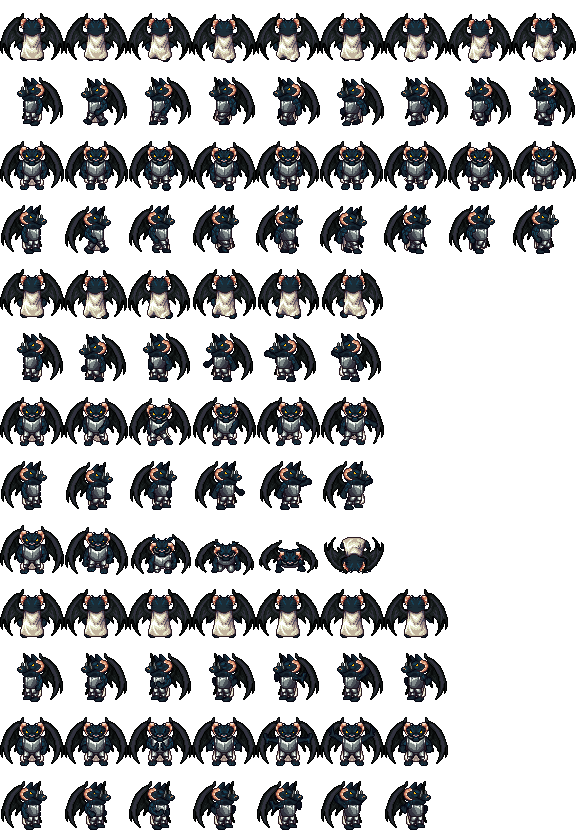
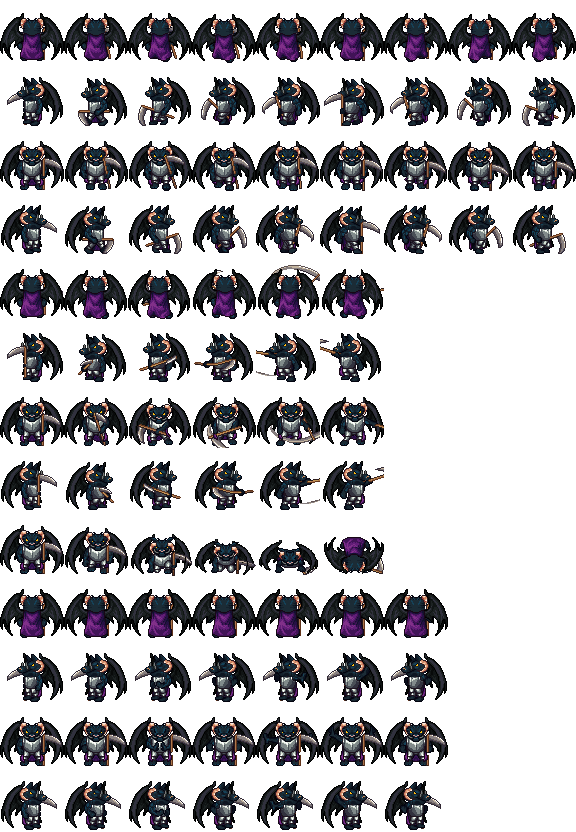
Monster art pass: new Blood King and Lich King boss sprites; humanoid mobs get weapons and armor
- boss_minotaur (LPC: crimson fur, iron armor, red cape, war axe) for Blood King
- boss_lich (procedural: floating tattered robe, skull with crown, staff, soul orbs) for Lich King
- 24 humanoid mobs rebuilt with weapons (axe, club, halberd, saber, mace, flail, scythe,
  rapier, spear, trident, dragon spear, glow sword, katana) plus helmets/pauldrons
- build_mobs: LPC weapon layers (slash from 192px frames, spear thrust fallback), cape recolor fix

Claude-Session: https://claude.ai/code/session_01RVFgCBNzd2DQowAD8LfVDX

diff --git a/server/data.js b/server/data.js
@@ -244,7 +244,7 @@ const MONSTER_RESPAWN_MS = 8000;
 // slam = ทุบพื้นเป็นวง (เตือนก่อน cast ms) · summon = เรียกลูกน้องเมื่อเลือดต่ำกว่า at · enrage = คลั่งเมื่อเลือดต่ำกว่า
 const WORLD_BOSSES = {
   bloodking: {
-    name: "ราชันโลหิตมิโนทอร์", level: 32, sprite: "minotaur", tint: 0xff5a4a, scale: 2.1, speed: 80, aggressive: true,
+    name: "ราชันโลหิตมิโนทอร์", level: 32, sprite: "boss_minotaur", tint: 0xffffff, scale: 2.1, speed: 80, aggressive: true,
     maps: ["orcamp", "snow"], every: [60, 90], // เกิดเองตามเวลา: สุ่มแผนที่ · ทุก 60–90 นาทีหลังถูกปราบ/หายไป
     hpMul: 250, atkMul: 1.5, defMul: 1.6, expMul: 40, goldMul: 25, range: 70,
     slam: { every: 9000, cast: 1300, r: 140, mult: 2.2 },
@@ -262,7 +262,7 @@ const WORLD_BOSSES = {
       items: [["stone_3", 3, 5], ["potion_m", 5, 8]] },
   },
   lichking: {
-    name: "จอมลิชราตรี", level: 60, sprite: "lich", tint: 0xb07aff, scale: 2.2, speed: 75, aggressive: true,
+    name: "จอมลิชราตรี", level: 60, sprite: "boss_lich", tint: 0xffffff, scale: 2.2, speed: 75, aggressive: true,
     maps: ["ruins", "cursed"], every: [90, 120],
     hpMul: 250, atkMul: 1.55, defMul: 1.6, expMul: 40, goldMul: 25, range: 70,
     summon: { at: [0.6, 0.3], kind: "skelknight", n: 4 },

diff --git a/public/game.js b/public/game.js
@@ -156,7 +156,7 @@ const layersFor = (lk, job = "villager", gear = "") => {
 // สีเตือนพื้นที่ของสกิลบอส / สีออร่าตามร่างบอส
 const BOSS_SK = { bullrush: { c: 0xff5a2a }, bloodroar: { c: 0xc01020 }, frostrain: { c: 0x6fd0ff }, deathmark: { c: 0xa040ff }, soulnova: { c: 0x50e0a0 },
   breath: { c: 0xff3ad0 }, meteor: { c: 0xff6a1a }, wingstorm: { c: 0xc890ff } };
-const BOSS_AURA = { minotaur: 0xc01020, lich: 0x7a4aff, dragon_abyss: 0xff3ad0, wyvern: 0xff3ad0 };
+const BOSS_AURA = { minotaur: 0xc01020, boss_minotaur: 0xc01020, lich: 0x7a4aff, boss_lich: 0x6ad8ff, dragon_abyss: 0xff3ad0, wyvern: 0xff3ad0 };
 function drawLook(cv, lk, job, frame, row, gear) {
   const ctx = cv.getContext("2d");
   ctx.imageSmoothingEnabled = false;

diff --git a/tools/mobs/creatures.py b/tools/mobs/creatures.py
@@ -558,7 +558,187 @@ def dragon(c, d, kind, f, n, P):
     if kind == "cast" and 2 <= f <= 5:
         for i in range(6): c.dot(cx + math.cos(i * 1.1 + f) * 22, by - 6 + math.sin(i * 1.7 + f) * 14, fire, 1.2, 0.85)
 
-BODIES = {"slime": slime, "bat": bat, "ghost": ghost, "mushroom": mushroom, "spider": spider, "golem": golem, "eye": eye, "wisp": wisp, "plant": plant, "dragon": dragon}
+
+# ---------------- บอส: ราชันโลหิตมิโนทอร์ ----------------
+def rot2(px, py, cx, cy, a):
+    dx, dy = px - cx, py - cy
+    return cx + dx * math.cos(a) - dy * math.sin(a), cy + dx * math.sin(a) + dy * math.cos(a)
+
+def big_axe(c, hx, hy, ang, s, metal=(150, 150, 160), blood=(150, 20, 20), glow=None):
+    """ขวานสองคมยักษ์: ด้ามจากมือ (hx,hy) ยาวไปทางมุม ang · ใบขวานที่ปลาย"""
+    L = 26 * s
+    ex, ey = hx + math.cos(ang) * L, hy + math.sin(ang) * L
+    bx, by = hx - math.cos(ang) * 6 * s, hy - math.sin(ang) * 6 * s
+    c.line(bx, by, ex, ey, 2.4, (90, 60, 34), 1)
+    for side in (-1, 1):  # ใบขวานสองข้าง
+        pts = [(0, -1), (side * 9, -7), (side * 12, 0), (side * 9, 7), (0, 1)]
+        q = [rot2(ex + px * s, ey + py * s, ex, ey, ang + math.pi / 2) for px, py in pts]
+        c.poly(q, metal, 2)
+        e1 = rot2(ex + side * 11.5 * s, ey - 5 * s, ex, ey, ang + math.pi / 2); e2 = rot2(ex + side * 11.5 * s, ey + 5 * s, ex, ey, ang + math.pi / 2)
+        c.line(e1[0], e1[1], e2[0], e2[1], 1, (235, 235, 245), 3)
+        c.dot(*rot2(ex + side * 7 * s, ey + 2 * s, ex, ey, ang + math.pi / 2), blood, 1.1)
+    c.dot(ex, ey, (60, 50, 50), 1.6)
+
+def minotaur_boss(c, d, kind, f, n, P):
+    ph = f / max(1, n) * math.pi * 2
+    s = P.get("size", 1)
+    fur, dark, horn, metal, eye = P["c"], P["dark"], P.get("horn", (232, 222, 196)), P.get("metal", (120, 120, 132)), P.get("eye", (255, 40, 30))
+    cx, base = 32, 61
+    step = math.sin(ph) if kind == "walk" else 0
+    bob = abs(math.sin(ph)) * 1.4 if kind == "walk" else 0
+    fw = {"left": -1, "right": 1}.get(d, 0); side = fw != 0
+    swing = None; roar = 0; fall = 0
+    if kind == "slash":  # ยกขวานไปหลังหัว → ฟาดลงข้างหน้า
+        t = f / (n - 1); swing = (-2.3 + t * 3.3) if t > 0.25 else -2.3 - t * 0.6
+    if kind == "cast": roar = math.sin(min(1, f / (n - 2)) * math.pi * 0.5)
+    if kind == "hurt": fall = f / max(1, n - 1)
+    by = base - 25 * s + bob + fall * 12
+    # ขา + กีบ
+    for sg in ((-1, 1) if not side else (fw, -fw)):
+        lx = cx + sg * (7 if not side else 2) * s + (step * sg * 3 if side else 0)
+        lift = max(0, step * sg) * 3
+        c.ell(lx, base - 10 - lift + fall * 4, 5.5 * s, 8 * s, fur)
+        c.ell(lx, base - 2.5 - lift + fall * 2, 4.5 * s, 2.6 * s, dark, flat=0)
+    # ผ้าเตี่ยว + เข็มขัดหัวกะโหลก
+    c.poly([(cx - 9 * s, by + 10), (cx + 9 * s, by + 10), (cx + 6 * s, by + 20), (cx - 6 * s, by + 20)], P.get("cloth", (90, 20, 24)), 1)
+    c.line(cx - 11 * s, by + 10, cx + 11 * s, by + 10, 2.5, (70, 50, 30), 1)
+    if d != "up": c.ell(cx + fw * 3, by + 10, 2.4, 2.2, (230, 225, 210), flat=3)
+    # ลำตัวกล้ามใหญ่หลังค่อม
+    c.ell(cx, by, 12 * s, 12 * s, fur)
+    if d != "up" and not side:
+        c.ell(cx - 4.5 * s, by - 3, 5 * s, 4 * s, fur, flat=3); c.ell(cx + 4.5 * s, by - 3, 5 * s, 4 * s, fur, flat=3)  # อก
+        for i in range(3): c.line(cx - 3 + i * 2.5, by + 3, cx - 1 + i * 2.5, by + 8, 1, dark, 1)                  # ท้อง
+        c.line(cx - 8, by - 6, cx - 2, by + 1, 1, (200, 60, 60), 2); c.line(cx + 3, by - 7, cx + 8, by - 1, 1, (200, 60, 60), 2)  # แผลเป็น
+    # บ่าเกราะหนาม
+    for sg in ((-1, 1) if not side else (-fw,)):
+        sx_ = cx + sg * (13 if not side else 3) * s
+        c.ell(sx_, by - 9, 6 * s, 5 * s, metal)
+        for k in range(3): c.poly([(sx_ - 2.6 + k * 2.6, by - 12.5), (sx_ - 2 + k * 2.6 + sg * 1.5, by - 17 - (k == 1) * 2), (sx_ - 1.2 + k * 2.6, by - 12.5)], metal, 1)
+    # หัววัว
+    hx = cx + fw * 7 * s; hy = by - 16 * s - roar * 3
+    if d != "up":
+        if not side:
+            for sg in (-1, 1):  # เขาโค้งออกข้างแล้วชี้ขึ้น
+                c.poly([(hx + sg * 5, hy - 4), (hx + sg * 13, hy - 6), (hx + sg * 18, hy - 12), (hx + sg * 19, hy - 19), (hx + sg * 15, hy - 11), (hx + sg * 11, hy - 2)], horn, 2)
+            c.ell(hx, hy, 9 * s, 8 * s, fur)
+            c.ell(hx, hy - 5, 6 * s, 2.5 * s, P["dark"], flat=1)                                                             # ขนหน้าผาก
+            for sg in (-1, 1): c.poly([(hx + sg * 8, hy - 3), (hx + sg * 13, hy - 1), (hx + sg * 9, hy + 1)], fur, 1)      # หู
+            c.ell(hx, hy + 5, 6.5 * s, 4.5 * s, P.get("snout", (190, 140, 120)))                                            # จมูก
+            c.dot(hx - 2, hy + 5, (30, 10, 10), 0.9); c.dot(hx + 2, hy + 5, (30, 10, 10), 0.9)
+            c.ell(hx, hy + 8.5, 2.6, 1.6, (220, 190, 80), flat=4, alpha=0.9); c.ell(hx, hy + 8.5, 1.4, 0.8, P.get("snout", (190, 140, 120)), flat=1)  # ห่วงจมูก
+            if roar > 0.3: c.ell(hx, hy + 9, 3.5, 2.2 * roar, (60, 10, 10), flat=0)
+            for sg in (-1, 1):
+                c.line(hx + sg * 1.5, hy - 3.2, hx + sg * 5.5, hy - 1.8, 1.2, (20, 8, 8), 0)
+                c.ell(hx + sg * 3.4, hy - 1, 1.6, 1.1, eye, flat=4); c.ell(hx + sg * 3.4, hy - 1, 3, 2, eye, flat=3, alpha=0.4)
+        else:
+            L = fw
+            c.poly([(hx - L * 2, hy - 4), (hx - L * 9, hy - 9), (hx - L * 10, hy - 18), (hx - L * 6, hy - 10), (hx + L * 1, hy - 2)], horn, 2)
+            c.ell(hx, hy, 7.5 * s, 6.5 * s, fur)
+            c.ell(hx + L * 6, hy + 3, 5 * s, 3.8 * s, P.get("snout", (190, 140, 120)))
+            c.dot(hx + L * 9.5, hy + 2.5, (30, 10, 10), 0.9)
+            c.ell(hx + L * 7, hy + 7, 2, 1.5, (220, 190, 80), flat=4)
+            c.line(hx + L * 0.5, hy - 3.5, hx + L * 5, hy - 2.5, 1.2, (20, 8, 8), 0)
+            c.ell(hx + L * 2.5, hy - 1.2, 1.6, 1.1, eye, flat=4); c.ell(hx + L * 2.5, hy - 1.2, 3, 2, eye, flat=3, alpha=0.4)
+            c.poly([(hx - L * 4, hy - 1), (hx - L * 8, hy + 1), (hx - L * 4, hy + 2)], fur, 1)
+            if roar > 0.3: c.ell(hx + L * 7, hy + 6, 3, 2 * roar, (60, 10, 10), flat=0)
+    else:
+        for sg in (-1, 1): c.poly([(hx + sg * 5, hy - 4), (hx + sg * 13, hy - 6), (hx + sg * 18, hy - 12), (hx + sg * 19, hy - 19), (hx + sg * 15, hy - 11), (hx + sg * 11, hy - 2)], horn, 2)
+        c.ell(hx, hy, 8 * s, 7 * s, fur); c.ell(hx, hy + 2, 6 * s, 3 * s, dark, flat=1)
+    # แขน + ขวาน (มือขวา = ด้านที่หัน / ข้างขวาของจอเมื่อหันหน้า)
+    hand_sg = fw if side else 1
+    sxh, syh = cx + hand_sg * (16 if not side else 6) * s, by - 6
+    if swing is not None: a = swing * (1 if hand_sg > 0 else -1) + (0 if hand_sg > 0 else math.pi)
+    else: a = (-1.15 if hand_sg > 0 else -1.99) + step * 0.12 - fall * 0.8
+    hand = (sxh + math.cos(a + (0.9 if hand_sg > 0 else -0.9)) * 8, syh + 10 - (swing is not None) * 6)
+    if swing is not None: hand = (sxh + math.cos(a) * 9, syh + math.sin(a) * 9)
+    c.line(sxh, syh, hand[0], hand[1], 5 * s, fur, 2)
+    big_axe(c, hand[0], hand[1], a, s, metal=P.get("blade", (150, 150, 160)), glow=P.get("glow"))
+    c.ell(hand[0], hand[1], 3.2 * s, 3.2 * s, fur)
+    if not side:  # มืออีกข้างกำหมัด
+        ox = cx - (16 * s); c.line(ox, by - 6, ox - 2, by + 7 + step * 2, 5 * s, fur, 2); c.ell(ox - 2, by + 8 + step * 2, 3.4 * s, 3.4 * s, fur)
+    if kind == "cast" and 2 <= f <= 5:  # ไอร้อนพ่นจมูก
+        for k in range(4): c.dot(hx + (k - 1.5) * 3 + fw * 8, hy + 8 + k, (255, 220, 200), 1.4, 0.6)
+
+# ---------------- บอส: จอมลิชราตรี ----------------
+def lich_boss(c, d, kind, f, n, P):
+    ph = f / max(1, n) * math.pi * 2
+    s = P.get("size", 1)
+    robe, robe2, bone, glow, metal = P["c"], P["c2"], P.get("bone", (232, 226, 210)), P["glow"], P.get("crown", (200, 170, 70))
+    cx = 32
+    float_y = math.sin(ph) * 2.2
+    fw = {"left": -1, "right": 1}.get(d, 0); side = fw != 0
+    raise_ = 0; thrust = 0; fade = 1
+    if kind == "cast": raise_ = math.sin(min(1, f / (n - 2)) * math.pi * 0.5)
+    if kind == "slash": thrust = math.sin(f / (n - 1) * math.pi)
+    if kind == "hurt": fade = 1 - f / max(1, n - 1) * 0.8
+    by = 34 + float_y + (1 - fade) * 8
+    # เงาบนพื้น (ลอยอยู่)
+    c.ell(cx, 59, 10 * s, 2.5, (0, 0, 0), flat=0, alpha=0.35 * fade)
+    # วิญญาณลอยวน (หลังตัว)
+    for k in range(3):
+        a = ph + k * 2.1
+        ox, oy = cx + math.cos(a) * 20 * s, by - 6 + math.sin(a) * 6
+        if math.sin(a) < 0: c.ell(ox, oy, 1.6, 1.6, glow, flat=4, alpha=0.9 * fade); c.ell(ox, oy, 3.2, 3.2, glow, flat=2, alpha=0.3 * fade)
+    # ชายผ้าคลุมขาดวิ่นพลิ้ว
+    hem = []
+    for i in range(9):
+        x = cx - 13 * s + i * 26 * s / 8
+        hem.append((x + math.sin(ph + i) * 1.5, by + 20 + (4 if i % 2 else 0) + math.sin(ph * 1.5 + i * 1.3) * 2))
+    hem = []
+    for i in range(11):
+        x = cx - 16 * s + i * 32 * s / 10
+        hem.append((x + math.sin(ph + i) * 1.5, by + 20 + (5 if i % 2 else 0) + math.sin(ph * 1.5 + i * 1.3) * 2))
+    c.poly([(cx - 7 * s, by - 9), (cx + 7 * s, by - 9)] + hem[::-1], robe, 1, fade)
+    c.poly([(cx - 7 * s, by - 9), (cx + 7 * s, by - 9), (cx + 13 * s, by + 17), (cx - 13 * s, by + 17)], robe, 2, fade)
+    for sg in (-1, 1): c.line(cx + sg * 6 * s, by - 6, cx + sg * 12 * s, by + 16, 1, robe2, 3, 0.6 * fade)
+    if d != "up":
+        c.poly([(cx - 3 * s, by - 8), (cx + 3 * s, by - 8), (cx + 5 * s, by + 18), (cx - 5 * s, by + 18)], robe2, 2, fade)  # แถบกลางเสื้อ
+        for k in range(4): c.dot(cx, by - 4 + k * 5, glow, 0.9, 0.9 * fade)                                                   # อักษรรูน
+        c.ell(cx, by - 5, 3 * s, 4 * s, bone, flat=2, alpha=fade)                                                               # ซี่โครงโผล่
+        for k in range(3): c.line(cx - 2.5, by - 7 + k * 2, cx + 2.5, by - 7 + k * 2, 1, (90, 80, 70), 0, fade)
+    # ปกคอสูงแหลม
+    for sg in (-1, 1): c.poly([(cx + sg * 3, by - 8), (cx + sg * 11 * s, by - 16), (cx + sg * 9 * s, by - 6)], robe2, 1, fade)
+    # หัวกะโหลก + มงกุฎหนาม
+    hx, hy = cx + fw * 2, by - 15 - raise_ * 1.5
+    c.ell(hx, hy - 0.5, 6.8 * s, 7 * s, (30, 14, 44), flat=1, alpha=fade)   # ฮู้ดด้านหลังหัว
+    c.ell(hx, hy, 5.6 * s, 6 * s, bone, alpha=fade)
+    c.ell(hx, hy + 3.5, 3.6 * s, 2.4 * s, bone, flat=1, alpha=fade)
+    if d != "up":
+        for ex in ([-2.4, 2.4] if not side else [fw * 2.4]):
+            c.ell(hx + ex * s, hy, 1.8 * s, 2.0 * s, (10, 6, 16), flat=0, alpha=fade)
+            c.dot(hx + ex * s, hy, glow, 1.0, fade); c.ell(hx + ex * s, hy, 3.2, 3.2, glow, flat=3, alpha=0.35 * fade)
+        c.poly([(hx - 0.8 + fw, hy + 2.5), (hx + 0.8 + fw, hy + 2.5), (hx + fw, hy + 1)], (40, 30, 30), 0, fade)
+        for k in range(4): c.line(hx - 2.5 + k * 1.6 + fw, hy + 4, hx - 2.5 + k * 1.6 + fw, hy + 5.5, 1, (60, 50, 40), 0, fade)
+    c.line(hx - 6 * s, hy - 4, hx + 6 * s, hy - 4, 2, metal, 3, fade)
+    for k in range(5):
+        x = hx - 5 * s + k * 2.5 * s; h = (6 if k == 2 else 4 if k in (1, 3) else 3)
+        c.poly([(x - 1.2, hy - 4), (x, hy - 4 - h), (x + 1.2, hy - 4)], metal, 3, fade)
+        if k == 2: c.dot(x, hy - 5, glow, 0.9, fade)
+    # แขนกระดูก + คทา
+    hand_sg = fw if side else 1
+    if raise_: hx2, hy2 = cx + hand_sg * 12 * s, by - 18 - raise_ * 6
+    else: hx2, hy2 = cx + hand_sg * (12 + thrust * 6) * s, by - 2 - thrust * 2
+    c.line(cx + hand_sg * 7, by - 6, hx2, hy2, 3, robe, 2, fade)
+    c.ell(hx2, hy2, 1.8, 1.8, bone, alpha=fade)
+    sx0, sy0, sx1, sy1 = hx2, hy2 + 16, hx2 + thrust * hand_sg * 4, hy2 - 20 - raise_ * 4
+    c.line(sx0, sy0, sx1, sy1, 1.8, (70, 50, 70), 1, fade)
+    c.ell(sx1, sy1, 4 * s, 4 * s, bone, alpha=fade)                                              # หัวกะโหลกปลายคทา
+    c.dot(sx1 - 1.2, sy1, (10, 6, 16), 0.9, fade); c.dot(sx1 + 1.2, sy1, (10, 6, 16), 0.9, fade)
+    gsz = 6 + raise_ * 5 + thrust * 4
+    c.ell(sx1, sy1 - 1, gsz, gsz, glow, flat=3, alpha=0.3 * fade); c.ell(sx1, sy1 - 1, gsz * 0.4, gsz * 0.4, glow, flat=4, alpha=0.8 * fade)
+    if not side or True:  # มืออีกข้าง (กางนิ้ว)
+        ox = cx - hand_sg * 11 * s; oy = by - 2 - raise_ * 12
+        c.line(cx - hand_sg * 7, by - 6, ox, oy, 3, robe, 2, fade); c.ell(ox, oy, 1.8, 1.8, bone, alpha=fade)
+        if raise_: c.ell(ox, oy - 3, 4 + raise_ * 3, 4 + raise_ * 3, glow, flat=3, alpha=0.35 * fade)
+    # วิญญาณลอยวน (หน้าตัว)
+    for k in range(3):
+        a = ph + k * 2.1
+        ox, oy = cx + math.cos(a) * 20 * s, by - 6 + math.sin(a) * 6
+        if math.sin(a) >= 0: c.ell(ox, oy, 1.6, 1.6, glow, flat=4, alpha=0.9 * fade); c.ell(ox, oy, 3.2, 3.2, glow, flat=2, alpha=0.3 * fade)
+    if kind == "cast" and 2 <= f <= 5:
+        for k in range(6): c.dot(cx + math.cos(k + f) * 16, by - 26 + math.sin(k * 1.7 + f) * 5, glow, 1.2, 0.9)
+
+BODIES = {"slime": slime, "bat": bat, "ghost": ghost, "mushroom": mushroom, "spider": spider, "golem": golem, "eye": eye, "wisp": wisp, "plant": plant, "dragon": dragon, "minotaur_boss": minotaur_boss, "lich_boss": lich_boss}
 # ชนิดมอน: body + สี
 CREATURES = {
     "slime_green":  ("slime", dict(c=(90, 200, 90))),
@@ -586,6 +766,7 @@ CREATURES = {
     "plant_bog":    ("plant", dict(c=(170, 40, 60), leaf=(60, 130, 50), spore=(220, 255, 120))),
     "wyvern":       ("dragon", dict(c=(60, 118, 84), w=(150, 80, 44), belly=(214, 196, 132), eye=(255, 220, 60), fire=(255, 150, 40), spike=(230, 210, 150))),
     "dragon_abyss": ("dragon", dict(c=(64, 36, 96), w=(78, 28, 104), belly=(150, 92, 172), eye=(255, 80, 220), fire=(255, 110, 230), horn=(225, 205, 235), spike=(255, 70, 200))),
+    "boss_lich":     ("lich_boss", dict(c=(52, 24, 76), c2=(108, 54, 150), glow=(140, 230, 255), crown=(214, 180, 80))),
     "plant_cursed": ("plant", dict(c=(110, 40, 140), leaf=(50, 80, 60), spot=(255, 120, 230), spore=(220, 120, 255))),
 }
 LAYOUT = [("walk", 0, 9), ("slash", 4, 6), ("hurt", 8, 6), ("cast", 9, 7)]

diff --git a/tools/mobs/build_mobs.py b/tools/mobs/build_mobs.py
@@ -54,6 +54,37 @@ def head(name, skin, sex="male"):
 def metal(base, to):  # ชิ้นเกราะโลหะ (ต้นฉบับสี steel)
     return part(base, pal=[("metal", "steel", to)] if to != "steel" else None)
 
+def weapon(base, color=None):
+    """อาวุธ LPC → [bg, fg] (เดิน/ฟัน/บาดเจ็บ/ร่ายเวท) · ท่าฟันใช้ภาพขนาด 192 ตัดตรงกลาง 64 · ไม่มีท่าเดิน → ใช้เฟรมแรกของท่าฟันถือไว้"""
+    import glob
+    root = os.path.join(R, "weapon", base)
+    files = sorted(glob.glob(os.path.join(root, "**", "*.png"), recursive=True))
+    def pick(anim, back):
+        c = [f for f in files if (anim in f.replace(root, "")) and (("behind" in f or "background" in f) == back) and "reverse" not in f]
+        if anim == "attack_slash" and not c:
+            c = [f for f in files if os.path.dirname(f) == (os.path.join(root, "background") if back else root)]
+        if color:
+            cc = [f for f in c if os.path.basename(f).startswith(color)]
+            c = cc or c
+        pref = [f for f in c if os.path.basename(f)[:-4] in (os.path.basename(base), "foreground", "background")]
+        return (pref or c or [None])[0]
+    out = []
+    for back in (True, False):
+        s = lpc.blank()
+        sl = pick("attack_slash", back)
+        if sl: lpc.put(s, sl, "slash", fs=192)
+        else:  # หอก: ไม่มีท่าฟัน → ใช้ท่าแทง
+            th = pick("attack_thrust", back)
+            if th: lpc.put(s, th, "slash", pick=[0, 1, 3, 4, 5, 7], fs=192); sl = th
+        w = pick("walk", back)
+        if w: lpc.put(s, w, "walk"); lpc.put(s, w, "spellcast", pick=[0] * 7)
+        elif sl:  # ถือค้างไว้ด้วยเฟรมแรกของท่าฟัน
+            lpc.put(s, sl, "walk", pick=[0] * 9, fs=192); lpc.put(s, sl, "spellcast", pick=[0] * 7, fs=192)
+        h = pick("hurt", back)
+        if h: lpc.put(s, h, "hurt")
+        out.append(s)
+    return out
+
 def build(recipe):
     sheet = lpc.blank()
     for l in recipe:
@@ -72,8 +103,13 @@ def M():
     tail = lambda kind, c=None, **k: [part(f"body/tail/{kind}/adult/bg", color=c, **k), part(f"body/tail/{kind}/adult/fg", color=c, **k)]
     robe = lambda c, sex="male": part("torso/clothes/robe/female", color=c)  # มีแต่ทรงหญิง (ใส่กับร่างอื่นก็พอได้)
     cyclops = lambda: part("eyes/cyclops/adult")
-    cape = lambda c: [part("cape/solid/bg", color=c), part("cape/solid/fg", color=c)]
+    cape = lambda c: [part("cape/solid/bg", pal=[("cloth", "white", c)] if c != "white" else None), part("cape/solid/fg", pal=[("cloth", "white", c)] if c != "white" else None)]  # ต้นฉบับมีสีขาวสีเดียว → ย้อมเอง
     hat = lambda kind, c=None: part(f"hat/magic/{kind}/base/adult", color=c)
+    W = lambda w, c=None: weapon(w, c)                       # อาวุธ [bg, fg]
+    helm = lambda kind, to="steel": metal(f"hat/helmet/{kind}/adult", to)
+    shoulder = lambda kind, to="steel": metal(f"shoulders/{kind}/male", to)
+    leather = lambda: metal("torso/armour/leather/male", "steel")
+    legion = lambda to: metal("torso/armour/legion/male", to)
 
     def L(*xs):  # รวมเลเยอร์ (รองรับ list ของ [bg, fg])
         bg, mid, fg = [], [], []
@@ -83,50 +119,58 @@ def M():
         return bg + mid + fg
 
     return {
+        # World Boss: ราชันโลหิตมิโนทอร์ (ขนแดงเลือด เกราะเหล็กดำ ผ้าคลุมแดง ขวานศึก)
+        "boss_minotaur": lambda: L(W("blunt/waraxe"), cape("maroon"), mus("fur_copper"), plate_legs("iron"), legion("iron"), shoulder("bauldron", "iron"), head("minotaur", "fur_copper"), horns("curled")),
+        # มอนเลเวลต่ำแบบคน (ทำใหม่: มีอาวุธ/ชุดเกราะ ไม่ใช่แค่ตัวเปล่าย้อมสี)
+        "orc":         lambda: L(W("blunt/waraxe"), mus("green"), pants("brown"), leather(), shoulder("pauldrons", "iron"), head("orc", "green")),
+        "troll":       lambda: L(W("blunt/club"), mus("taupe"), pants("walnut"), head("troll", "taupe")),
+        "minotaur":    lambda: L(W("polearm/halberd"), mus("fur_brown"), pants("maroon"), legion("bronze"), head("minotaur", "fur_brown")),
+        "snowtroll":   lambda: L(W("blunt/club"), mus("fur_white"), pants("bluegray"), shoulder("bauldron", "silver"), head("troll", "fur_white")),
+        "skeleton":    lambda: L(W("sword/saber"), body("skeleton", "light"), head("skeleton", "light")),
         # ยอดเขาน้ำแข็ง 34–44
-        "frostgiant":  lambda: L(mus("fur_white"), pants("navy"), plate("silver"), head("troll", "fur_white")),
+        "frostgiant":  lambda: L(W("blunt/mace"), mus("fur_white"), pants("navy"), plate("silver"), head("troll", "fur_white"), helm("horned", "silver")),
         "snowwraith":  lambda: L(wings("feathered", "platinum"), body("skeleton", "light"), robe("white"), head("skeleton", "light")),
         "icewolfman":  lambda: L(tail("wolf", "platinum"), mus("fur_white"), pants("bluegray"), head("wolf", "fur_white")),
-        "frostcyclops":lambda: L(mus("blue"), pants("slate"), head("human", "blue", "male_plump"), cyclops()),
+        "frostcyclops":lambda: L(W("blunt/club"), mus("blue"), pants("slate"), shoulder("bauldron", "silver"), head("human", "blue", "male_plump"), cyclops()),
         # บึงพิษมรณะ 42–52
         "bogzombie":   lambda: L(body("zombie", "zombie_green"), pants_m("forest"), head("zombie", "zombie_green")),
-        "venomlizard": lambda: L(tail("lizard", None, pal=None), mus("dark_green"), pants("maroon"), head("lizard", "dark_green")),
-        "bogboar":     lambda: L(mus("olive"), pants("walnut"), metal("torso/armour/leather/male", "steel"), head("boarman", "olive")),
+        "venomlizard": lambda: L(W("polearm/spear"), tail("lizard", None, pal=None), mus("dark_green"), pants("maroon"), head("lizard", "dark_green")),
+        "bogboar":     lambda: L(W("blunt/flail"), mus("olive"), pants("walnut"), metal("torso/armour/leather/male", "steel"), head("boarman", "olive")),
         "swampwitch":  lambda: L(body("female", "pale_green"), robe("forest_green", "female"), head("human", "pale_green", "female"), hat("wizard", "forest")),
         # ซากปราสาทร้าง 50–60
-        "skelknight":  lambda: L(body("skeleton", "light"), plate_legs("iron"), plate("iron"), head("skeleton", "light")),
+        "skelknight":  lambda: L(W("sword/longsword"), body("skeleton", "light"), plate_legs("iron"), plate("iron"), head("skeleton", "light"), helm("bascinet", "iron")),
         "frankenstein":lambda: L(mus("pale_green"), pants("charcoal"), head("frankenstein", "pale_green")),
         "gargoyle":    lambda: L(wings("bat", "ash"), mus("taupe"), pants("gray"), head("orc", "taupe"), horns("backwards")),
         "lich":        lambda: L(body("skeleton", "light"), robe("purple"), head("skeleton", "light"), hat("wizard", "purple")),
         # ป่าต้องสาป 58–68
-        "wartotaur":   lambda: L(mus("fur_black"), pants("maroon"), head("wartotaur", "fur_black")),
-        "vamplord":    lambda: L(wings("bat", "black"), cape("maroon"), mus("light"), plate("bronze"), head("vampire", "light")),
+        "wartotaur":   lambda: L(W("blunt/waraxe"), mus("fur_black"), pants("maroon"), shoulder("pauldrons", "iron"), head("wartotaur", "fur_black")),
+        "vamplord":    lambda: L(W("sword/rapier"), wings("bat", "black"), cape("maroon"), mus("light"), plate("bronze"), head("vampire", "light")),
         "cursedwolf":  lambda: L(tail("wolf", "black"), mus("fur_black"), pants("purple"), head("wolf", "fur_black")),
         "dryad":       lambda: L(wings("lunar", None), body("female", "bright_green"), robe("forest_green", "female"), head("human", "bright_green", "female")),
         # ทุ่งลาวา 66–76
         "firedemon":   lambda: L(wings("bat", "red"), tail("lizard", None), mus("bronze"), pants("black"), head("human", "bronze"), horns("curled")),
-        "flameorc":    lambda: L(mus("amber"), plate_legs("copper"), plate("copper"), head("orc", "amber")),
-        "lavataur":    lambda: L(mus("fur_copper"), pants("black"), metal("torso/armour/legion/male", "brass"), head("minotaur", "fur_copper")),
-        "salamander":  lambda: L(tail("lizard", None), mus("amber"), pants("orange"), head("lizard", "amber")),
+        "flameorc":    lambda: L(W("blunt/waraxe"), mus("amber"), plate_legs("copper"), plate("copper"), head("orc", "amber"), helm("barbarian_viking", "copper")),
+        "lavataur":    lambda: L(W("polearm/halberd"), mus("fur_copper"), pants("black"), metal("torso/armour/legion/male", "brass"), head("minotaur", "fur_copper")),
+        "salamander":  lambda: L(W("polearm/trident"), tail("lizard", None), mus("amber"), pants("orange"), head("lizard", "amber")),
         # ทะเลทรายแดง 74–84
         "mummy":       lambda: L(body("zombie", "light"), robe("light_gray"), head("zombie", "light")),
-        "sandrat":     lambda: L(tail("wolf", "sandy"), mus("fur_tan"), pants("tan"), head("rat", "fur_tan")),
+        "sandrat":     lambda: L(W("sword/dagger"), tail("wolf", "sandy"), mus("fur_tan"), pants("tan"), head("rat", "fur_tan")),
         "sandspirit":  lambda: L(body("male", "bright_green"), robe("dark_brown"), head("alien", "bright_green")),
-        "sandwarlord": lambda: L(cape("red"), mus("olive"), plate_legs("gold"), plate("gold"), head("orc", "olive")),
+        "sandwarlord": lambda: L(W("sword/saber"), cape("red"), mus("olive"), plate_legs("gold"), plate("gold"), head("orc", "olive"), helm("morion", "gold")),
         # ยอดเขามังกร 82–92
-        "draconian":   lambda: L(wings("lizard", None), tail("lizard", None), mus("green"), pants("forest"), head("lizard", "green"), horns("backwards")),
-        "dragonknight":lambda: L(wings("lizard", None), mus("light"), plate_legs("gold"), plate("gold"), head("human", "light"), horns("curled")),
+        "draconian":   lambda: L(W("polearm/dragonspear"), wings("lizard", None), tail("lizard", None), mus("green"), pants("forest"), head("lizard", "green"), horns("backwards")),
+        "dragonknight":lambda: L(W("sword/glowsword"), wings("lizard", None), mus("light"), plate_legs("gold"), plate("gold"), head("human", "light"), helm("maximus", "gold")),
         "wyvern":      lambda: L(wings("bat", "navy"), tail("lizard", None), mus("blue"), pants("navy"), head("lizard", "blue")),
-        "volcanogiant":lambda: L(mus("black"), pants("maroon"), metal("torso/armour/legion/male", "copper"), head("troll", "black")),
+        "volcanogiant":lambda: L(W("blunt/club"), mus("black"), pants("maroon"), metal("torso/armour/legion/male", "copper"), head("troll", "black"), shoulder("bauldron", "copper")),
         # ห้วงอเวจี 90–99
-        "deathknight": lambda: L(cape("black"), body("skeleton", "light"), plate_legs("iron"), plate("iron"), head("skeleton", "light"), horns("curled")),
-        "shadowdemon": lambda: L(wings("feathered", "black"), mus("lavender"), pants("black"), head("human", "lavender"), horns("curled")),
-        "darkcyclops": lambda: L(mus("lavender"), metal("torso/armour/legion/male", "iron"), pants("black"), head("human", "lavender", "male_plump"), cyclops()),
-        "abysslord":   lambda: L(wings("bat", "black"), cape("purple"), mus("fur_black"), plate_legs("silver"), plate("silver"), head("wartotaur", "fur_black"), horns("curled")),
+        "deathknight": lambda: L(W("polearm/scythe"), cape("black"), body("skeleton", "light"), plate_legs("iron"), plate("iron"), head("skeleton", "light"), helm("xeon", "iron")),
+        "shadowdemon": lambda: L(W("sword/katana"), wings("feathered", "black"), mus("lavender"), pants("black"), head("human", "lavender"), horns("curled")),
+        "darkcyclops": lambda: L(W("blunt/mace"), mus("lavender"), metal("torso/armour/legion/male", "iron"), pants("black"), shoulder("pauldrons", "iron"), head("human", "lavender", "male_plump"), cyclops()),
+        "abysslord":   lambda: L(W("polearm/scythe"), wings("bat", "black"), cape("purple"), mus("fur_black"), plate_legs("silver"), plate("silver"), head("wartotaur", "fur_black"), horns("curled")),
     }
 
 # สีย้อมเพิ่มหลังประกอบ (ให้แต่ละตัวต่างกันชัดขึ้น)
-POST = {"snowwraith": (0.0, 0.6, 1.08), "lich": (0.0, 1.1, 0.95), "shadowdemon": (0.0, 1.0, 0.8), "deathknight": (0.0, 0.7, 0.75),
+POST = {"boss_minotaur": (-0.035, 1.45, 0.78), "snowwraith": (0.0, 0.6, 1.08), "lich": (0.0, 1.1, 0.95), "shadowdemon": (0.0, 1.0, 0.8), "deathknight": (0.0, 0.7, 0.75),
         "salamander": (-0.03, 1.4, 1.0), "firedemon": (-0.02, 1.25, 1.0), "mummy": (0.0, 0.5, 1.05), "darkcyclops": (0.0, 1.2, 0.6), "volcanogiant": (-0.02, 1.5, 0.85)}
 
 if __name__ == "__main__":
